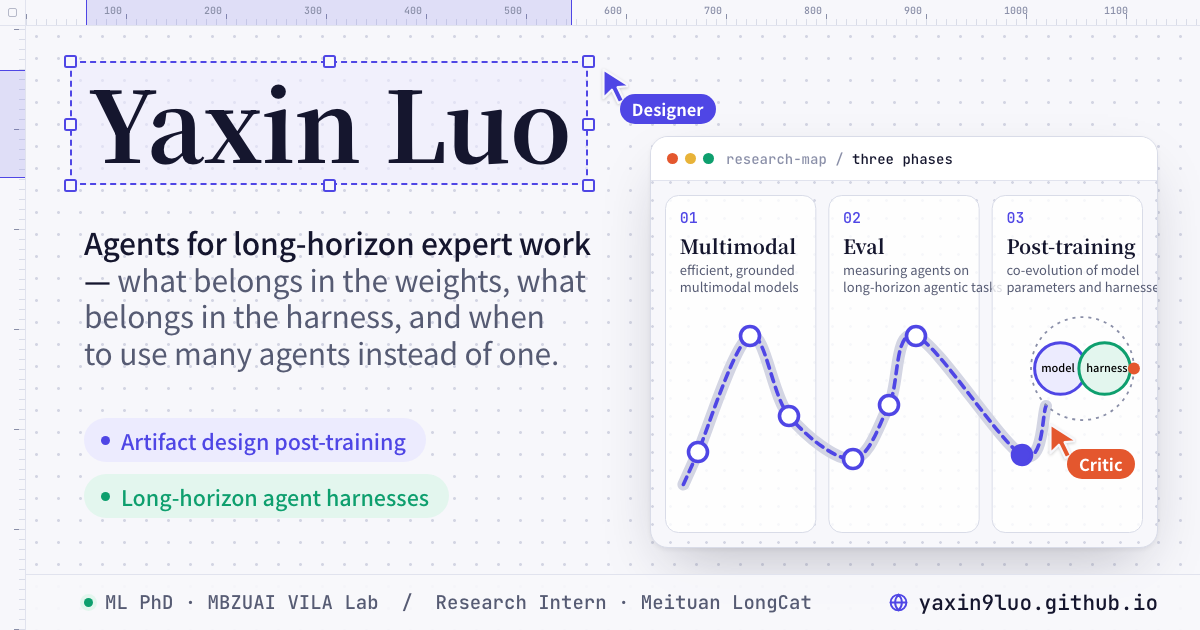
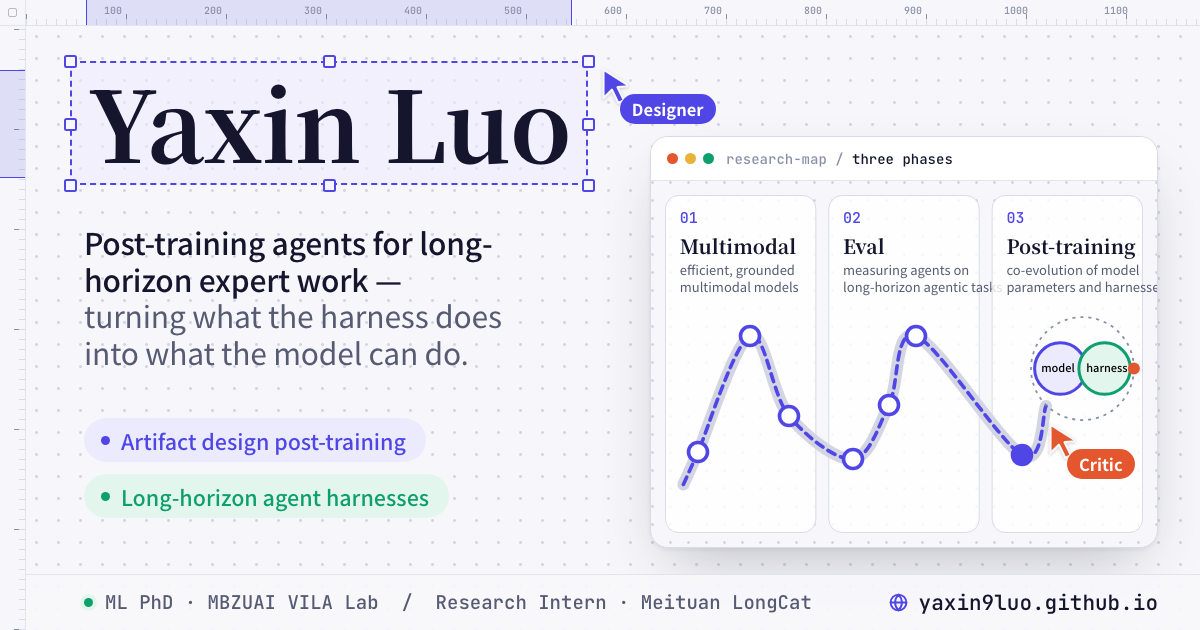
Put post-training at the center of the research statement
The positioning, intro, bio and Research card now say the work is
post-training agents (mid-training, SFT and RL), with the harness serving
as the environment and reward source. The Research title becomes
"Post-Training Long-Horizon Agents: From the Harness into the Weights",
with Measure, Internalize and Co-evolve as its parts. The opening quote,
observatory text, meta tags and share card follow.

Changed region(s): [[0.0617, 0.3619, 0.4933, 0.6032]]

diff --git a/world/src/content.js b/world/src/content.js
@@ -15,17 +15,17 @@ export const profile = {
   role: bilingual('Machine Learning PhD Student', '机器学习博士生'),
   // One-line positioning and the author's own research statement (shared by the landing, About and _data/portfolio.json).
   positioning: bilingual(
-    'Agents for long-horizon expert work — what belongs in the weights, what belongs in the harness, and when to use many agents instead of one.',
-    '面向长程专家级任务的智能体 —— 哪些能力该放进权重，哪些该留在 harness 里，什么时候该从一个 agent 变成多个。',
+    'Post-training agents for long-horizon expert work — turning what the harness does into what the model can do.',
+    '面向长程专家级任务的智能体后训练 —— 把 harness 能做到的，变成模型自己能做到的。',
   ),
   intro: bilingual(
-    'I work on one question: in an agent system, where should a capability live — in the model\'s weights, in the harness around it, or across many agents working together? For each choice I ask three things: how to measure what each layer contributes, how to move a capability from one layer to another (for example, internalizing harness behavior into the weights), and how to improve the layers together instead of one at a time. My testbed is long-horizon artifact design. Next, I am extending the same questions from a single agent to agent swarms.',
-    '我只研究一个问题：在智能体系统里，一项能力应该放在哪里？是模型权重、模型外面的 harness，还是由多个 agent 协作完成？针对每一种选择，我研究三件事：怎么测量每一层的贡献；怎么把能力从一层转移到另一层（比如把 harness 的行为内化进权重）；怎么让各层一起优化，而不是一次只改一层。我的试验场是长程 artifact design 任务。下一步，我把同样的问题从单个 agent 推广到 agent swarm。',
+    'My work is post-training for agents. Today, a harness can make a model carry out long-horizon work; I study how to move that ability into the weights. This takes three steps: measuring what the weights and the harness each contribute; building harnesses that produce training-grade trajectories and rewards; and training on them with mid-training, SFT and reinforcement learning, where the harness\'s evaluators supply the rewards, so the model needs less scaffolding. My testbed is long-horizon artifact design, where I contribute to the LongCat 2.5 post-training pipeline for agentic design. Next, I am taking the same questions from a single agent to agent swarms.',
+    '我研究智能体的后训练。现在，靠 harness 可以让模型完成长程任务；我研究的是怎么把这种能力转移到权重里。具体分三步：测量权重和 harness 各自贡献了多少；构建能产出训练级轨迹和奖励的 harness；用这些数据做 Mid-Training、SFT 和强化学习（RL），由 harness 里的评测器提供奖励，让模型对外部脚手架的依赖越来越少。我的试验场是长程 artifact design，并参与 LongCat 2.5 Agentic Design 的后训练流程。下一步，我把同样的问题从单个 agent 推广到 agent swarm。',
   ),
   affiliation: bilingual('MBZUAI · VILA Lab', 'MBZUAI · VILA 实验室'),
   bio: bilingual(
-    'I am a Machine Learning PhD student at MBZUAI, advised by Prof. Zhiqiang Shen. My long-term goal is to build agentic systems that can carry out arbitrary complex, long-horizon human expert work in digital environments, with a path toward real-world tasks. My current focus is production-grade models for agentic design and automated iteration systems for the long-horizon harnesses that support them.',
-    '我是罗亚鑫，在 MBZUAI 攻读机器学习博士，导师是 Zhiqiang Shen 教授。我的长期目标是构建能够在数字世界中完成任意复杂、长程人类专家工作的智能体系统，并逐步探索扩展到真实世界任务。目前重点是让模型可靠完成生产级设计类 Agentic 任务，并构建支撑这些任务的长程 Harness 自动迭代系统。',
+    'I am a Machine Learning PhD student at MBZUAI, advised by Prof. Zhiqiang Shen. My long-term goal is to build agentic systems that can carry out arbitrary complex, long-horizon human expert work in digital environments, with a path toward real-world tasks. My current focus is post-training production-grade models for agentic design, with SFT and RL, together with the harnesses that serve as their environments and reward sources.',
+    '我是罗亚鑫，在 MBZUAI 攻读机器学习博士，导师是 Zhiqiang Shen 教授。我的长期目标是构建能够在数字世界中完成任意复杂、长程人类专家工作的智能体系统，并逐步探索扩展到真实世界任务。目前重点是通过 SFT 和 RL 后训练生产级设计类 Agentic 模型，并构建为训练提供环境和奖励的 harness。',
   ),
   portrait: '/images/Yaxin.JPG',
 };
@@ -34,17 +34,17 @@ export const research = [
   {
     id: 'capability-placement',
     title: bilingual(
-      'Where Capability Lives, and How the Layers Co-Evolve',
-      '能力放在哪一层，以及各层如何共同进化',
+      'Post-Training Long-Horizon Agents: From the Harness into the Weights',
+      '长程智能体的后训练：从 harness 到权重',
     ),
     description: bilingual(
-      'An agent is a model plus its harness; a swarm is many agents plus the structure that connects them. I study which capabilities belong in the weights, which in the harness, and which across agents, and how these layers co-evolve rather than being tuned one at a time. My testbed is long-horizon artifact design.',
-      'agent 是模型加上它的 harness；swarm 是多个 agent 加上连接它们的结构。我研究哪些能力该放进权重，哪些该留在 harness 里，哪些该分散到多个 agent 上，以及这几层如何共同进化，而不是一次只调一层。试验场是长程 artifact design 任务。',
+      'An agent is a model plus its harness. Today much of an agent\'s long-horizon ability comes from the harness; I study how to post-train that ability into the weights with mid-training, SFT and RL, using the harness itself as the environment and reward source. My testbed is long-horizon artifact design.',
+      'agent 是模型加上它的 harness。现在 agent 的很多长程能力来自 harness；我研究怎么用 Mid-Training、SFT 和 RL 把这些能力后训练进权重，并把 harness 本身用作环境和奖励来源。试验场是长程 artifact design 任务。',
     ),
     questions: [
-      {title: bilingual('Measure', '测量'), text: bilingual('How much does each layer contribute?', '每一层贡献了多少能力？')},
-      {title: bilingual('Move', '转移'), text: bilingual('Internalize harness behavior into the weights.', '把 harness 的行为内化进权重。')},
-      {title: bilingual('Co-evolve', '共同进化'), text: bilingual('Optimize the weights, the harness and the structure between agents together, so each layer adapts as the others change.', '让权重、harness 和 agent 之间的结构一起优化，每一层随着其他层的变化而调整。')},
+      {title: bilingual('Measure', '测量'), text: bilingual('How much do the weights and the harness each contribute?', '权重和 harness 各贡献多少？')},
+      {title: bilingual('Internalize', '内化'), text: bilingual('Use the harness as an RL environment: collect training-grade trajectories, let its evaluators supply rewards, and train through mid-training, SFT and RL so the weights learn what the harness did.', '把 harness 当作 RL 环境，采集面向训练的轨迹，由评测器提供奖励；再经过 Mid-Training、SFT 和 RL，把 harness 的行为学进权重。')},
+      {title: bilingual('Co-evolve', '共同进化'), text: bilingual('As RL makes the model stronger, the environments and rewards the harness must provide change too, so the two are iterated together.', '模型经过 RL 变强以后，harness 需要提供的环境和奖励也要跟着变，所以两者要一起迭代。')},
     ],
     next: bilingual(
       'Next: the same questions, from a single agent to agent swarms.',

diff --git a/world/index.html b/world/index.html
@@ -5,9 +5,9 @@
     <meta charset="UTF-8" />
     <meta name="viewport" content="width=device-width, initial-scale=1, viewport-fit=cover" />
     <meta name="theme-color" content="#F7F7FB" />
-    <meta name="description" content="Yaxin Luo — ML PhD student at MBZUAI. Agents for long-horizon expert work: what belongs in the weights, what belongs in the harness, and when to use many agents instead of one. Bilingual portfolio." />
+    <meta name="description" content="Yaxin Luo — ML PhD student at MBZUAI. Post-training agents for long-horizon expert work — turning what the harness does into what the model can do. Bilingual portfolio." />
     <meta property="og:title" content="Yaxin Luo — Portfolio" />
-    <meta property="og:description" content="Agents for long-horizon expert work — what belongs in the weights, what belongs in the harness, and when to use many agents instead of one. AutoDesign, Open CaptchaWorld and more." />
+    <meta property="og:description" content="Post-training agents for long-horizon expert work — turning what the harness does into what the model can do. AutoDesign, Open CaptchaWorld and more." />
     <meta property="og:type" content="website" />
     <meta property="og:url" content="https://yaxin9luo.github.io/" />
     <meta property="og:site_name" content="Yaxin Luo" />
@@ -15,10 +15,10 @@
     <meta property="og:image:type" content="image/png" />
     <meta property="og:image:width" content="1200" />
     <meta property="og:image:height" content="630" />
-    <meta property="og:image:alt" content="Yaxin Luo: agents for long-horizon expert work, and what belongs in the weights, the harness, or many agents. Shown on a design canvas beside a research map from multimodal models through evaluation to post-training." />
+    <meta property="og:image:alt" content="Yaxin Luo: post-training agents for long-horizon expert work, turning what the harness does into what the model can do. Shown on a design canvas beside a research map from multimodal models through evaluation to post-training." />
     <meta name="twitter:card" content="summary_large_image" />
     <meta name="twitter:image" content="https://yaxin9luo.github.io/og/home.png" />
-    <meta name="twitter:image:alt" content="Yaxin Luo: agents for long-horizon expert work, and what belongs in the weights, the harness, or many agents. Shown on a design canvas beside a research map from multimodal models through evaluation to post-training." />
+    <meta name="twitter:image:alt" content="Yaxin Luo: post-training agents for long-horizon expert work, turning what the harness does into what the model can do. Shown on a design canvas beside a research map from multimodal models through evaluation to post-training." />
     <link rel="icon" type="image/svg+xml" href="/crest.svg" />
     <title>Yaxin Luo — Portfolio</title>
     <link rel="preload" href="/fonts/ec/serif-700.woff2" as="font" type="font/woff2" crossorigin />
@@ -28,7 +28,7 @@
   </head>
   <body>
     <div id="app"></div>
-    <noscript><main style="padding:3rem;background:#F7F7FB;color:#15162E;font:20px/1.5 Georgia,serif;min-height:100vh"><h1>Yaxin Luo</h1><p>Agents for long-horizon expert work — what belongs in the weights, what belongs in the harness, and when to use many agents instead of one.</p><p>This page needs JavaScript. 本页需要 JavaScript。</p><p><a style="color:#4F46E5" href="/files/CV_YaxinLuo.pdf">CV (PDF)</a> · <a style="color:#4F46E5" href="/files/CV_YaxinLuo_zh.pdf">中文简历</a> · <a style="color:#4F46E5" href="https://scholar.google.com/citations?user=tEaSCzYAAAAJ&amp;hl=en">Google Scholar</a> · <a style="color:#4F46E5" href="mailto:Yaxin.Luo@mbzuai.ac.ae">Email</a> · <a style="color:#4F46E5" href="https://github.com/Yaxin9Luo">GitHub</a></p></main></noscript>
+    <noscript><main style="padding:3rem;background:#F7F7FB;color:#15162E;font:20px/1.5 Georgia,serif;min-height:100vh"><h1>Yaxin Luo</h1><p>Post-training agents for long-horizon expert work — turning what the harness does into what the model can do.</p><p>This page needs JavaScript. 本页需要 JavaScript。</p><p><a style="color:#4F46E5" href="/files/CV_YaxinLuo.pdf">CV (PDF)</a> · <a style="color:#4F46E5" href="/files/CV_YaxinLuo_zh.pdf">中文简历</a> · <a style="color:#4F46E5" href="https://scholar.google.com/citations?user=tEaSCzYAAAAJ&amp;hl=en">Google Scholar</a> · <a style="color:#4F46E5" href="mailto:Yaxin.Luo@mbzuai.ac.ae">Email</a> · <a style="color:#4F46E5" href="https://github.com/Yaxin9Luo">GitHub</a></p></main></noscript>
     <script type="module" src="/src/main.js"></script>
   </body>
 </html>

diff --git a/world/src/navigation.js b/world/src/navigation.js
@@ -9,7 +9,7 @@ export const tourStops=[
   {id:'about',position:[54,52,62],title:{en:'Hello, I’m Yaxin.',zh:'你好，我是 Yaxin。'},description:{en:'A PhD student at MBZUAI. I build production-grade models for agentic design and automated iteration systems for long-horizon harnesses, toward agents that can carry out complex expert work in digital worlds.',zh:'我在 MBZUAI 攻读博士，研究生产级设计 Agent 与长程 Harness 自动迭代系统，目标是让智能体能够在数字世界中完成复杂专家工作。'}},
   {id:'publications',position:[-49,25,48],title:{en:'From ideas to papers.',zh:'从想法到论文。'},description:{en:'Explore selected first-author work on artifact-design post-training and long-horizon agentic tasks.',zh:'这里收录 artifact design 后训练与长程智能体任务相关的精选一作论文。'}},
   {id:'projects',position:[88,26,78],title:{en:'Things I’m building.',zh:'我在做的项目。'},description:{en:'AutoDesign studies long-horizon agentic design and reusable design harnesses for editable artifact generation. FigMirror turns data and visual references into editable scientific figures.',zh:'AutoDesign 研究长程智能体设计，以及用于生成可编辑数字制品的可复用设计 Harness。FigMirror 将数据和视觉参考转化为可编辑科研图表。'}},
-  {id:'research',position:[-55,34,-40],title:{en:'A few open questions.',zh:'一些正在探索的问题。'},description:{en:'In an agent system, where should a capability live — the weights, the harness, or many agents?',zh:'在智能体系统里，一项能力该放在哪里：权重、harness，还是多个 agent？'}},
+  {id:'research',position:[-55,34,-40],title:{en:'A few open questions.',zh:'一些正在探索的问题。'},description:{en:'How can post-training, SFT and RL included, move what the harness does into the weights?',zh:'怎么通过后训练（包括 SFT 和 RL），把 harness 做的事转移到权重里？'}},
   {id:'journey',position:[-18,22,98],title:{en:'The path so far.',zh:'一路走来。'},description:{en:'Education, research experiences, and the people and places that shaped my work.',zh:'我的求学经历、研究经历，以及一路上塑造研究方向的人与地方。'}},
   {id:'contact',position:[108,33,-30],title:{en:'Let’s keep in touch.',zh:'保持联系。'},description:{en:'Find my email, Google Scholar, GitHub, and CV. I am always open to research collaboration.',zh:'这里有邮箱、Google Scholar、GitHub 和简历，欢迎研究合作。'}},
 ];

diff --git a/world/src/journal.js b/world/src/journal.js
@@ -95,7 +95,7 @@ function researchQuestions(item, lang) {
 
 function researchView(lang) {
   return `${head(copy(lang, 'AT THE EDGE OF WHAT WE KNOW', '在已知与未知之间'), copy(lang, 'Research direction', '研究方向'), local(profile.positioning, lang), lang)}
-  <div class="journal-research-opening"><span aria-hidden="true">${icon('orbit')}</span><p>${escape(copy(lang, 'A model sits inside an agent, and an agent sits inside a swarm. Between each pair of layers is the same question: which layer should hold this capability?', '模型在 agent 里面，agent 又在 swarm 里面。每两层之间，都是同一个问题：这项能力该放在哪一层？'))}</p></div>
+  <div class="journal-research-opening"><span aria-hidden="true">${icon('orbit')}</span><p>${escape(copy(lang, 'Today, much of what an agent can do over a long task comes from the harness around it. Post-training decides how much of that the model can carry on its own.', '现在，agent 在长程任务上的很多能力来自它外面的 harness。后训练决定了其中有多少能由模型自己承担。'))}</p></div>
   <div class="journal-research-list">${research.map((item, index) => `<article class="journal-research-item"><span class="journal-research-number" aria-hidden="true">${String(index + 1).padStart(2, '0')}</span><div><p class="journal-eyebrow">${escape(copy(lang, 'RESEARCH DIRECTION', '研究方向'))}</p><h3>${escape(local(item.title, lang))}</h3><p>${escape(local(item.description, lang))}</p>${researchQuestions(item, lang)}</div></article>`).join('')}</div>
   <div class="journal-next"><div><p>${escape(copy(lang, 'Follow these questions into the published work.', '从这些问题出发，继续阅读相关论文。'))}</p></div>${sectionButton('publications', copy(lang, 'Read publications', '阅读论文'))}</div>`;
 }
